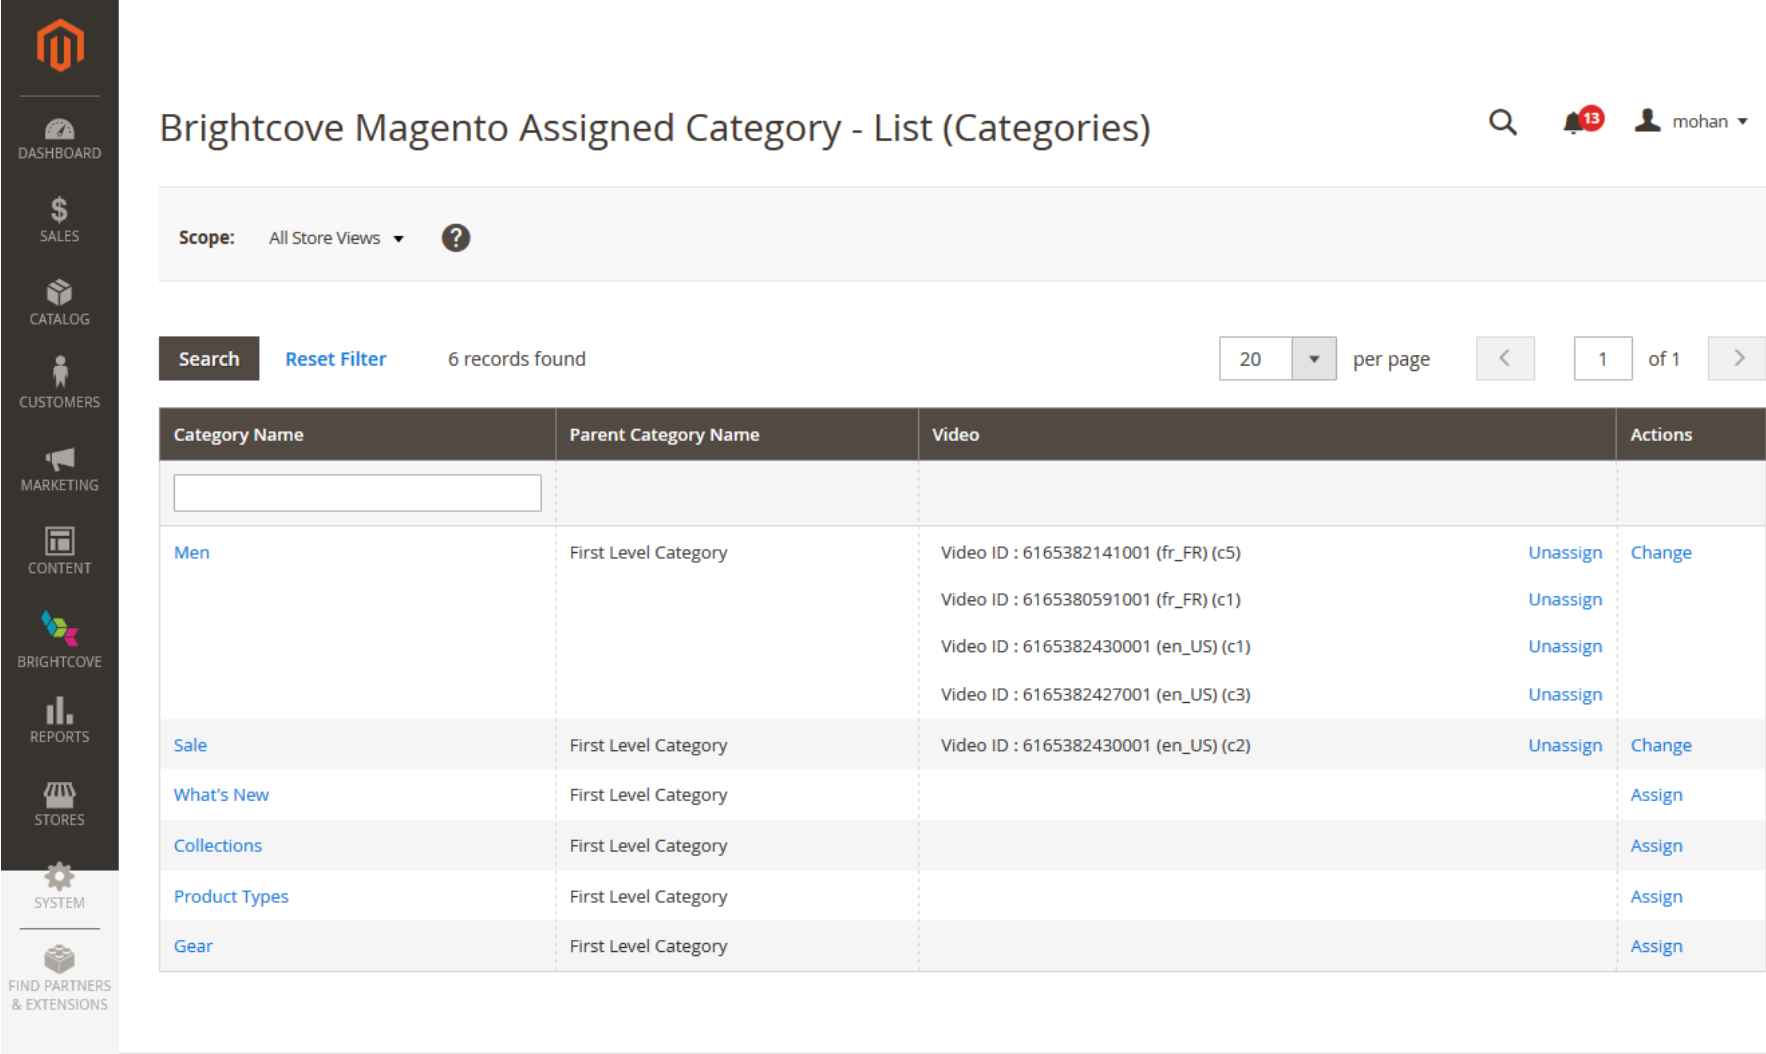
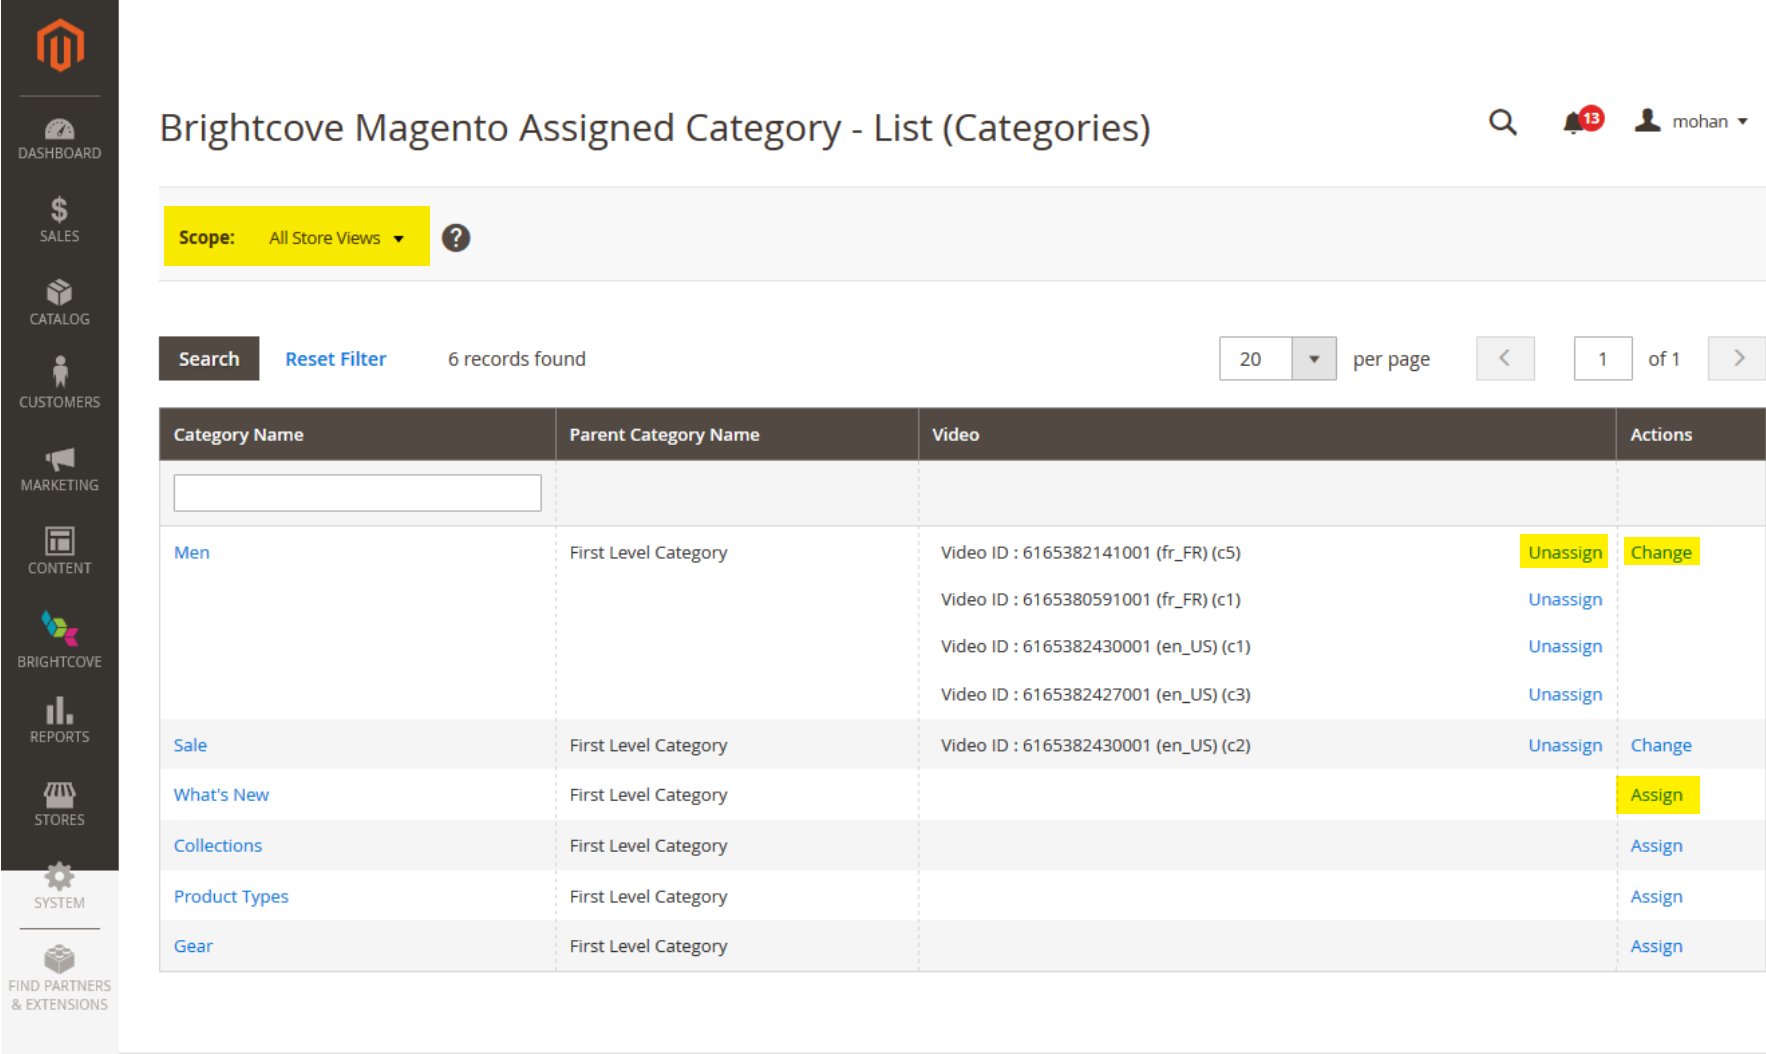
draft magento docs

Changed region(s): [[0.0934, 0.1822, 0.2492, 0.2732], [0.8409, 0.4858, 0.9655, 0.5465], [0.9032, 0.7287, 0.9655, 0.7894]]

diff --git a/_site/adobe-magento-commerce/user-guide.html b/_site/adobe-magento-commerce/user-guide.html
@@ -402,8 +402,9 @@ function doGTranslate(lang_pair) {if(lang_pair.value)lang_pair=lang_pair.value;i
     <p>Note: the Store View will be stored in the video metadata as a tag. This tag will be used for implementing Localization in the Assign page.</p>
   </section>
   <section class="bcls-section">
-    <h2 id="">Assign Video to Category</h2>
+    <h2 id="assign_videos_to_categories_and_products">Assign Videos to Categories and Products</h2>
     <p>Videos can be assigned to Categories and Products. In this section we will look at how to assign videos to Categories, and then how to assign them to Products in the following section.</p>
+    <h3>Assigning to Categories</h3>
     <ol class="bcls-tasklist-restart">
       <li>
         From the <a href="#brightcove_module_menu">Brightcove Module Menu</a>, open the <strong>Assign Videos to Categories</strong> page.
@@ -413,8 +414,123 @@ function doGTranslate(lang_pair) {if(lang_pair.value)lang_pair=lang_pair.value;i
         </figure>
       </li>
       <li>
-        The initial page presents a list of categories, showing videos that are currently assigned to them 
+        The initial page presents a list of categories, showing videos that are currently assigned to them, and there are links to <strong>Unassign</strong> or <strong>Change</strong> existing video assignments, as well as <strong>Assign</strong> videos to a category.
+        <p>Also note:</p>
+        <ul>
+          <li>The Scope selector, allowing you to implement the localization filter</li>
+          <li>When you hover over a video ID, a thumbnail image of the video will appear</li>
+        </ul>
       </li>
+      <li>
+        Click <strong>Assign</strong> beside a category to assign to open a grid of videos to be assigned:
+        <figure class="bcls-figure">
+          <img class="bcls-image" src="/assets/images/adobe-magento-commerce/video-grid-for-category-assignment.png" alt="Video Grid for Category Assignment">
+          <figcaption class="bcls-caption--image">Video Grid for Category Assignment</figcaption>
+        </figure>
+      </li>
+      <li>If you don't see the video you are looking for, you can search by video title to find it.</li>
+      <li>Use the localization dropdown menu to get the language you want.</li>
+      <li>
+        In the <strong>Video</strong> column:
+        <ul>
+          <li>Choose the player for the selected video</li>
+          <li>Use the selector to choose the video slot</li>
+        </ul>
+        <aside class="bcls-aside bcls-aside--information language-editable">Note that the number of slot values is generated from the configuration values.</aside>
+        .</li>
+        <li>If the video is already assigned to this category, it will display an orange border and an <strong>Unassign</strong> option.</li>
+      </ol>
+      <h3>Assigning to Products</h3>
+      <ol class="bcls-tasklist-restart">
+        <li>
+          From the <a href="#brightcove_module_menu">Brightcove Module Menu</a>, open the <strong>Assign Videos to Products</strong> page.
+          <figure class="bcls-figure">
+            <img class="bcls-image" src="/assets/images/adobe-magento-commerce/product-list-with-assigned-videos.png" alt="Assign Videos to Products Page">
+            <figcaption class="bcls-caption--image">Assign Videos to Products Page</figcaption>
+          </figure>
+        </li>
+        <li>As with Categories, you can <strong>Assign</strong> videos, or <strong>Unassign</strong> or <strong>Change</strong> already assigned videos. You can also hover over a video ID to display the thumbnail.</li>
+        <li>
+          Click of the <strong>Assign</strong> links to assign a video. This will bring up the video grid:
+          <figure class="bcls-figure">
+            <img class="bcls-image" src="/assets/images/adobe-magento-commerce/video-grid-for-product-assignment.png" alt="Video Grid for Product Assignment">
+            <figcaption class="bcls-caption--image">Video Grid for Product Assignment</figcaption>
+          </figure>
+        </li>
+        <li>If you don't see the video you are looking for, you can search by video title to find it.</li>
+        <li>Use the localization dropdown menu to get the language you want.</li>
+        <li>
+          In the <strong>Video</strong> column:
+          <ul>
+            <li>Choose the player for the selected video</li>
+            <li>Use the selector to choose the video slot</li>
+          </ul>
+          <aside class="bcls-aside bcls-aside--information language-editable">Note that the number of slot values is generated from the configuration values.</aside>
+          .</li>
+          <li>If the video is already assigned to this product, it will display an orange border and an <strong>Unassign</strong> option.</li>
+      </ol>
+  </section>
+  <section class="bcls-section">
+    <h2 id="generate_embed_code">Generate Embed Code</h2>
+    <ol class="bcls-tasklist-restart">
+      <li>
+        From the <a href="#brightcove_module_menu">Brightcove Module Menu</a>, go to the Generate Embed Code page:
+        <figure class="bcls-figure">
+          <img class="bcls-image" src="/" alt="Generate Embed Code Page">
+          <figcaption class="bcls-caption--image">Generate Embed Code Page</figcaption>
+        </figure>
+      </li>
+      <li>Select the player you want to use and a video, and then click <strong>Get Code</strong> to see and copy either the Basic (iframe) or Advanced (in-page) code for the player.</li>
+      <li>We recommend that you use the Basic embed code unless you are customizing the player in some way that requires and in-page script.</li>
+    </ol>
+  </section>
+  <section class="bcls-section">
+    <h2 id="brightcove_configuration">Brightcove Configuration</h2>
+    <p>You can update or add to the Brightcove configuration.</p>
+    <ol class="bcls-tasklist-restart">
+      <li>
+        Go to <strong>Stored -&gt; Brightcove Video Configuration</strong>:
+        <figure class="bcls-figure">
+          <img class="bcls-image" src="/assets/images/adobe-magento-commerce/brightcove-configuration-page.png" alt="Brightcove Configuration Page">
+          <figcaption class="bcls-caption--image">Brightcove Configuration Page</figcaption>
+        </figure>
+      </li>
+      <li>The client id, client secret, API Base URL (for getting access tokens), and the Store ID should already have been filled in during installation, but you can update these values if needed.</li>
+      <li>You can also set the number of video slots for Categories, Masters, and Variants.</li>
+      <li>Finally, if you want to use the Bulk Data Import option (descibed in the following section), enter a comma-separated list of email addresses to receive notifications related to bulk imports.</li>
+    </ol>
+  </section>
+  <section class="bcls-section">
+    <h2 id="bulk_import_data">Bulk import data</h2>
+    <p>There are several kinds of data you can bulk import, including a list of videos to upload to Brightcove, video Category assignments, and video Product assignments.</p>
+    <ol class="bcls-tasklist-restart">
+      <li>
+        Go to <strong>System -&gt; Import</strong> open the Bulk Import page:
+        <figure class="bcls-figure">
+          <img class="bcls-image" src="/assets/images/adobe-magento-commerce/bulk-import-page.png" alt="Bulk Import Page">
+          <figcaption class="bcls-caption--image">Bulk Import Page</figcaption>
+        </figure>
+      </li>
+      <li>Select the kind of import you want to do.</li>
+      <li>
+        Here is a sample of the Bulk Upload Videos to Brightcove page:
+        <figure class="bcls-figure">
+          <img class="bcls-image" src="/assets/images/adobe-magento-commerce/bulk-upload-video-page.png" alt="Bulk Upload Video Page">
+          <figcaption class="bcls-caption--image">Bulk Upload Video Page</figcaption>
+        </figure>
+      </li>
+      <li>If you don't have a sample CSV file for the import, you can download one using the sample download link.</li>
+      <li>
+        Select the <strong>Import Behavior</strong>:
+        <ul>
+          <li><strong>Add/Update</strong> - Add and replace existing records</li>
+          <li><strong>Replace</strong> - Replace the existing records</li>
+          <li><strong>Delete</strong> - Delete the existing records</li>
+        </ul>
+      </li>
+      <li>Using the <strong>Browse</strong> button, select your CSV file.</li>
+      <li>Click <strong>Check Data</strong> to ensure the data is valid. (If the CSV file does not contain any valid records, the import option won't be shown).</li>
+      <li>Click the <strong>Import</strong> button to import the data. You should see a success message.</li>
     </ol>
   </section>
 </article>
@@ -434,7 +550,7 @@ function doGTranslate(lang_pair) {if(lang_pair.value)lang_pair=lang_pair.value;i
 
 <hr>
 <div class="last-updated">
-  Page last updated on 30 Jun 2020
+  Page last updated on 01 Jul 2020
 </div>
 
 

diff --git a/adobe-magento-commerce/user-guide.html b/adobe-magento-commerce/user-guide.html
@@ -54,8 +54,9 @@ parent: Adobe Magento Commerce
     <p>Note: the Store View will be stored in the video metadata as a tag. This tag will be used for implementing Localization in the Assign page.</p>
   </section>
   <section class="bcls-section">
-    <h2 id="">Assign Video to Category</h2>
+    <h2 id="assign_videos_to_categories_and_products">Assign Videos to Categories and Products</h2>
     <p>Videos can be assigned to Categories and Products. In this section we will look at how to assign videos to Categories, and then how to assign them to Products in the following section.</p>
+    <h3>Assigning to Categories</h3>
     <ol class="bcls-tasklist-restart">
       <li>
         From the <a href="#brightcove_module_menu">Brightcove Module Menu</a>, open the <strong>Assign Videos to Categories</strong> page.
@@ -65,8 +66,123 @@ parent: Adobe Magento Commerce
         </figure>
       </li>
       <li>
-        The initial page presents a list of categories, showing videos that are currently assigned to them 
+        The initial page presents a list of categories, showing videos that are currently assigned to them, and there are links to <strong>Unassign</strong> or <strong>Change</strong> existing video assignments, as well as <strong>Assign</strong> videos to a category.
+        <p>Also note:</p>
+        <ul>
+          <li>The Scope selector, allowing you to implement the localization filter</li>
+          <li>When you hover over a video ID, a thumbnail image of the video will appear</li>
+        </ul>
       </li>
+      <li>
+        Click <strong>Assign</strong> beside a category to assign to open a grid of videos to be assigned:
+        <figure class="bcls-figure">
+          <img class="bcls-image" src="/assets/images/adobe-magento-commerce/video-grid-for-category-assignment.png" alt="Video Grid for Category Assignment">
+          <figcaption class="bcls-caption--image">Video Grid for Category Assignment</figcaption>
+        </figure>
+      </li>
+      <li>If you don't see the video you are looking for, you can search by video title to find it.</li>
+      <li>Use the localization dropdown menu to get the language you want.</li>
+      <li>
+        In the <strong>Video</strong> column:
+        <ul>
+          <li>Choose the player for the selected video</li>
+          <li>Use the selector to choose the video slot</li>
+        </ul>
+        <aside class="bcls-aside bcls-aside--information language-editable">Note that the number of slot values is generated from the configuration values.</aside>
+        .</li>
+        <li>If the video is already assigned to this category, it will display an orange border and an <strong>Unassign</strong> option.</li>
+      </ol>
+      <h3>Assigning to Products</h3>
+      <ol class="bcls-tasklist-restart">
+        <li>
+          From the <a href="#brightcove_module_menu">Brightcove Module Menu</a>, open the <strong>Assign Videos to Products</strong> page.
+          <figure class="bcls-figure">
+            <img class="bcls-image" src="/assets/images/adobe-magento-commerce/product-list-with-assigned-videos.png" alt="Assign Videos to Products Page">
+            <figcaption class="bcls-caption--image">Assign Videos to Products Page</figcaption>
+          </figure>
+        </li>
+        <li>As with Categories, you can <strong>Assign</strong> videos, or <strong>Unassign</strong> or <strong>Change</strong> already assigned videos. You can also hover over a video ID to display the thumbnail.</li>
+        <li>
+          Click of the <strong>Assign</strong> links to assign a video. This will bring up the video grid:
+          <figure class="bcls-figure">
+            <img class="bcls-image" src="/assets/images/adobe-magento-commerce/video-grid-for-product-assignment.png" alt="Video Grid for Product Assignment">
+            <figcaption class="bcls-caption--image">Video Grid for Product Assignment</figcaption>
+          </figure>
+        </li>
+        <li>If you don't see the video you are looking for, you can search by video title to find it.</li>
+        <li>Use the localization dropdown menu to get the language you want.</li>
+        <li>
+          In the <strong>Video</strong> column:
+          <ul>
+            <li>Choose the player for the selected video</li>
+            <li>Use the selector to choose the video slot</li>
+          </ul>
+          <aside class="bcls-aside bcls-aside--information language-editable">Note that the number of slot values is generated from the configuration values.</aside>
+          .</li>
+          <li>If the video is already assigned to this product, it will display an orange border and an <strong>Unassign</strong> option.</li>
+      </ol>
+  </section>
+  <section class="bcls-section">
+    <h2 id="generate_embed_code">Generate Embed Code</h2>
+    <ol class="bcls-tasklist-restart">
+      <li>
+        From the <a href="#brightcove_module_menu">Brightcove Module Menu</a>, go to the Generate Embed Code page:
+        <figure class="bcls-figure">
+          <img class="bcls-image" src="/" alt="Generate Embed Code Page">
+          <figcaption class="bcls-caption--image">Generate Embed Code Page</figcaption>
+        </figure>
+      </li>
+      <li>Select the player you want to use and a video, and then click <strong>Get Code</strong> to see and copy either the Basic (iframe) or Advanced (in-page) code for the player.</li>
+      <li>We recommend that you use the Basic embed code unless you are customizing the player in some way that requires and in-page script.</li>
+    </ol>
+  </section>
+  <section class="bcls-section">
+    <h2 id="brightcove_configuration">Brightcove Configuration</h2>
+    <p>You can update or add to the Brightcove configuration.</p>
+    <ol class="bcls-tasklist-restart">
+      <li>
+        Go to <strong>Stored -&gt; Brightcove Video Configuration</strong>:
+        <figure class="bcls-figure">
+          <img class="bcls-image" src="/assets/images/adobe-magento-commerce/brightcove-configuration-page.png" alt="Brightcove Configuration Page">
+          <figcaption class="bcls-caption--image">Brightcove Configuration Page</figcaption>
+        </figure>
+      </li>
+      <li>The client id, client secret, API Base URL (for getting access tokens), and the Store ID should already have been filled in during installation, but you can update these values if needed.</li>
+      <li>You can also set the number of video slots for Categories, Masters, and Variants.</li>
+      <li>Finally, if you want to use the Bulk Data Import option (descibed in the following section), enter a comma-separated list of email addresses to receive notifications related to bulk imports.</li>
+    </ol>
+  </section>
+  <section class="bcls-section">
+    <h2 id="bulk_import_data">Bulk import data</h2>
+    <p>There are several kinds of data you can bulk import, including a list of videos to upload to Brightcove, video Category assignments, and video Product assignments.</p>
+    <ol class="bcls-tasklist-restart">
+      <li>
+        Go to <strong>System -&gt; Import</strong> open the Bulk Import page:
+        <figure class="bcls-figure">
+          <img class="bcls-image" src="/assets/images/adobe-magento-commerce/bulk-import-page.png" alt="Bulk Import Page">
+          <figcaption class="bcls-caption--image">Bulk Import Page</figcaption>
+        </figure>
+      </li>
+      <li>Select the kind of import you want to do.</li>
+      <li>
+        Here is a sample of the Bulk Upload Videos to Brightcove page:
+        <figure class="bcls-figure">
+          <img class="bcls-image" src="/assets/images/adobe-magento-commerce/bulk-upload-video-page.png" alt="Bulk Upload Video Page">
+          <figcaption class="bcls-caption--image">Bulk Upload Video Page</figcaption>
+        </figure>
+      </li>
+      <li>If you don't have a sample CSV file for the import, you can download one using the sample download link.</li>
+      <li>
+        Select the <strong>Import Behavior</strong>:
+        <ul>
+          <li><strong>Add/Update</strong> - Add and replace existing records</li>
+          <li><strong>Replace</strong> - Replace the existing records</li>
+          <li><strong>Delete</strong> - Delete the existing records</li>
+        </ul>
+      </li>
+      <li>Using the <strong>Browse</strong> button, select your CSV file.</li>
+      <li>Click <strong>Check Data</strong> to ensure the data is valid. (If the CSV file does not contain any valid records, the import option won't be shown).</li>
+      <li>Click the <strong>Import</strong> button to import the data. You should see a success message.</li>
     </ol>
   </section>
 </article>

diff --git a/_site/index.html b/_site/index.html
@@ -384,7 +384,7 @@ Video Cloud Studio allows you to manage your video publishing workflow across de
     <section class="bcls-card-small" onclick="window.location.href='/adobe/'">
 
       <div class="card-icon">
-        <i class="fab fa-adobe"></i>
+        <i class="fab fa-adobe"></img>
       </div>
 
       <div class="card-content">

diff --git a/_site/adobe-magento-commerce/installation-guide.html b/_site/adobe-magento-commerce/installation-guide.html
@@ -439,7 +439,7 @@ function doGTranslate(lang_pair) {if(lang_pair.value)lang_pair=lang_pair.value;i
 
 <hr>
 <div class="last-updated">
-  Page last updated on 30 Jun 2020
+  Page last updated on 01 Jul 2020
 </div>
 
 
